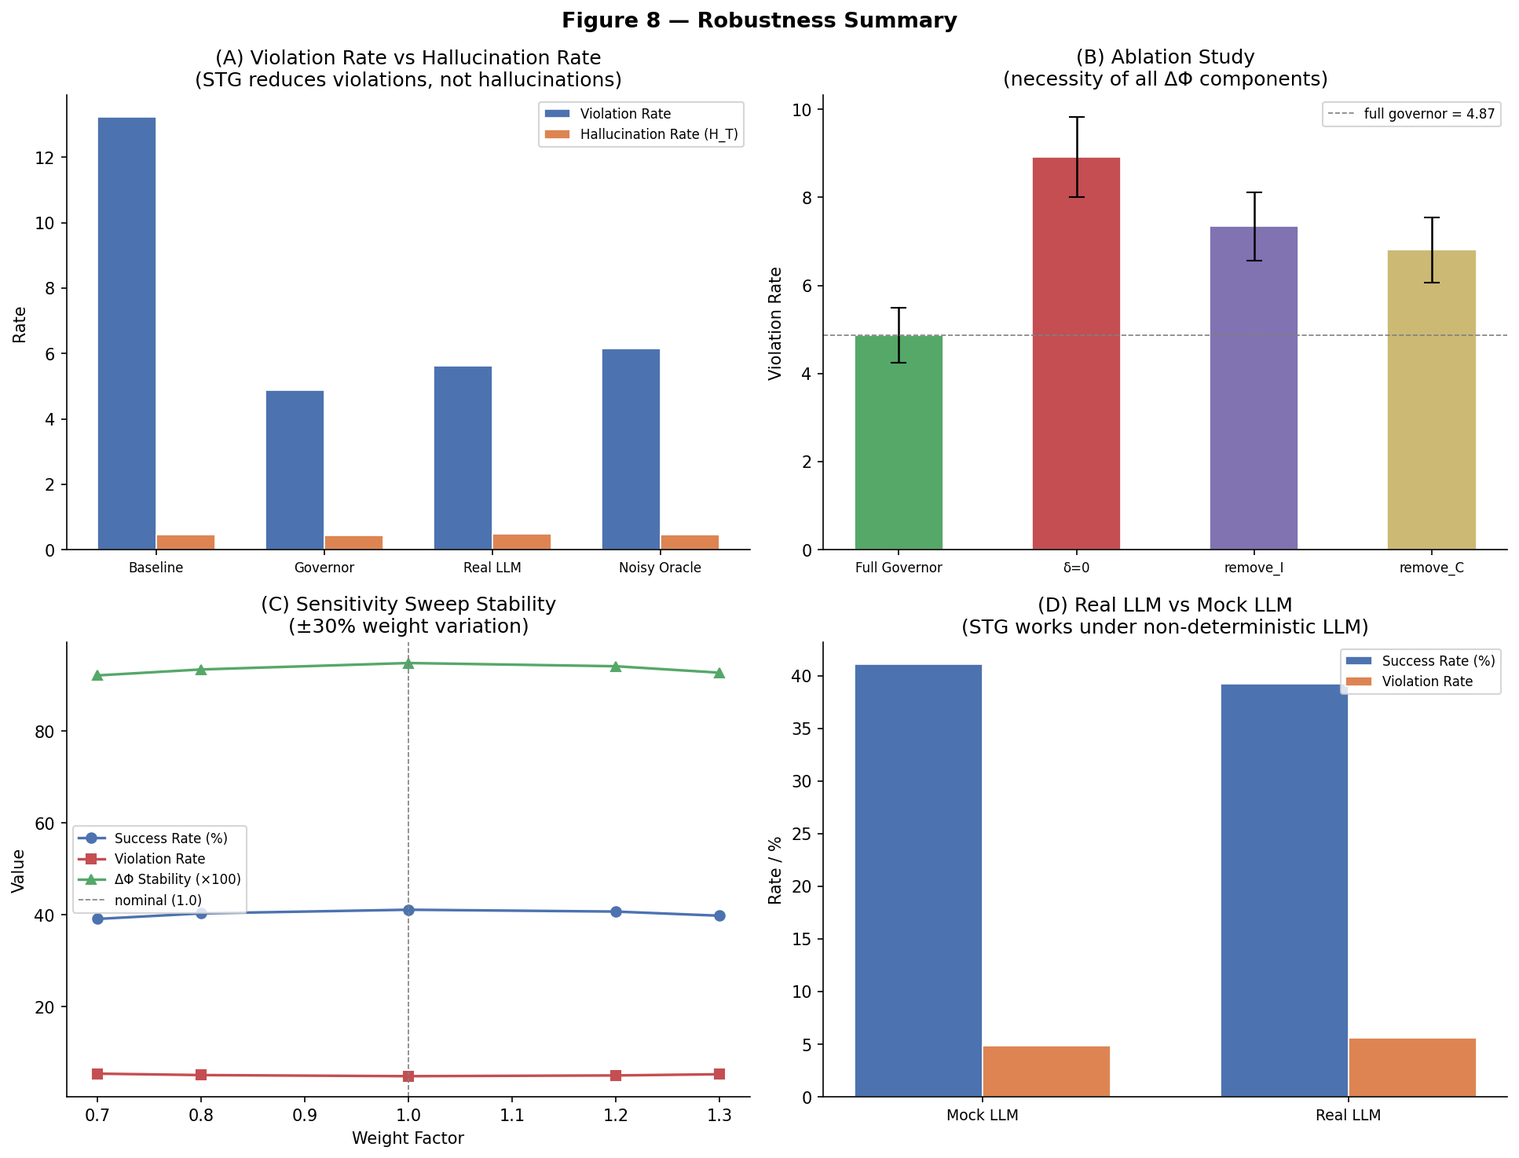
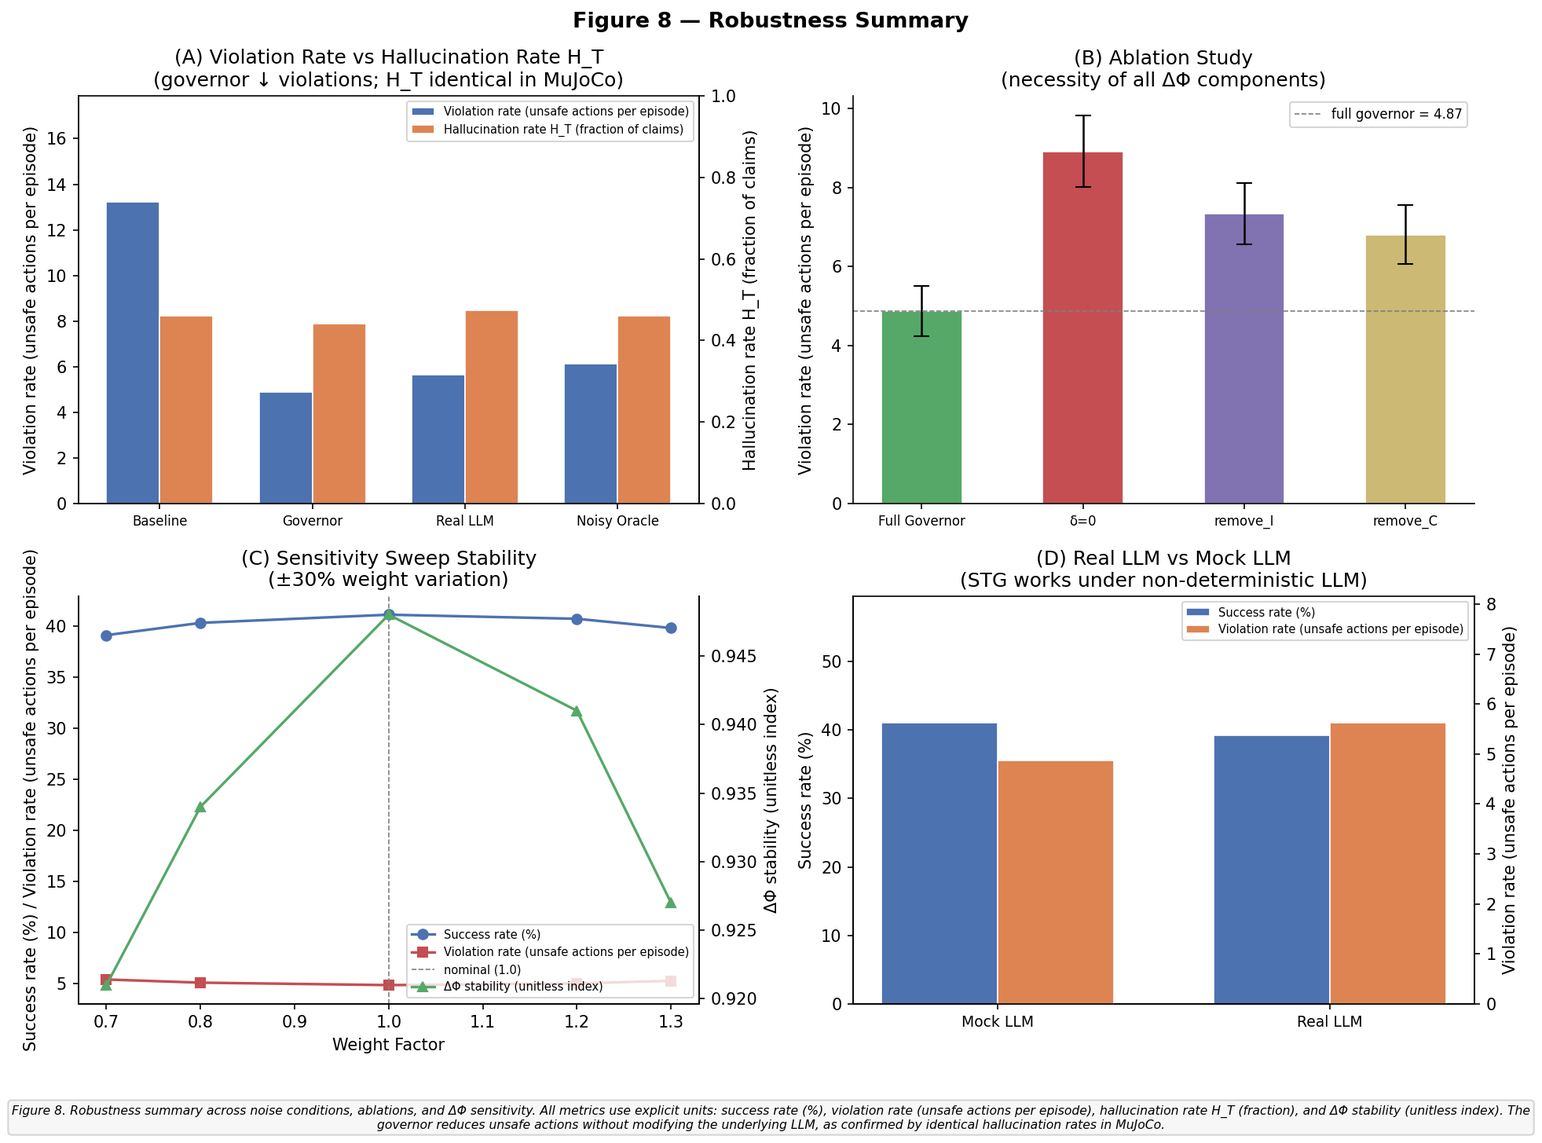
Regenerate Figure 8 with fully explicit Y-axis labels and units
Agent-Logs-Url: https://github.com/dfeen87/stg-embodied-poc/sessions/1da240ec-0c31-4e92-8921-ff8d5dfc0378

diff --git a/images/generate_plots.py b/images/generate_plots.py
@@ -354,6 +354,10 @@ def plot_figure_8() -> None:
     fig.suptitle("Figure 8 — Robustness Summary", fontsize=13, fontweight="bold")
 
     # ── Panel A: Violation Rate vs Hallucination Rate ─────────────────────────
+    # Dual Y-axes: left = violation rate (unsafe actions per episode, absolute
+    # count), right = hallucination rate H_T (fraction of claims, normalised
+    # [0, 1]).  The governor does NOT modify the LLM; in the primary MuJoCo
+    # experiment baseline and governed conditions show identical H_T.
     ax_a = axes[0, 0]
     metrics_df = _load_csv("metrics.csv")
     panel_a_conds = ["baseline", "governor", "real_llm", "noisy_oracle"]
@@ -368,17 +372,25 @@ def plot_figure_8() -> None:
     ]
     x_a = np.arange(len(panel_a_conds))
     w_a = 0.35
-    ax_a.bar(x_a - w_a / 2, viol_rates, w_a, label="Violation Rate", color="#4C72B0",
-             edgecolor="white", linewidth=0.8)
-    ax_a.bar(x_a + w_a / 2, hall_rates, w_a, label="Hallucination Rate (H_T)",
-             color="#DD8452", edgecolor="white", linewidth=0.8)
+    bars_av = ax_a.bar(x_a - w_a / 2, viol_rates, w_a,
+                       label="Violation rate (unsafe actions per episode)",
+                       color="#4C72B0", edgecolor="white", linewidth=0.8)
+    ax_a.set_ylabel("Violation rate (unsafe actions per episode)")
+    ax_a.set_ylim(0, max(viol_rates) * 1.35)
+    ax_a2 = ax_a.twinx()
+    bars_ah = ax_a2.bar(x_a + w_a / 2, hall_rates, w_a,
+                        label="Hallucination rate H_T (fraction of claims)",
+                        color="#DD8452", edgecolor="white", linewidth=0.8)
+    ax_a2.set_ylabel("Hallucination rate H_T (fraction of claims)")
+    ax_a2.set_ylim(0, 1)
     ax_a.set_xticks(x_a)
     ax_a.set_xticklabels(panel_a_labels, fontsize=8)
-    ax_a.set_ylabel("Rate")
-    ax_a.set_title("(A) Violation Rate vs Hallucination Rate\n"
-                   "(STG reduces violations, not hallucinations)")
-    ax_a.legend(fontsize=8)
-    ax_a.spines[["top", "right"]].set_visible(False)
+    ax_a.set_title("(A) Violation Rate vs Hallucination Rate H_T\n"
+                   "(governor ↓ violations; H_T identical in MuJoCo)")
+    handles = [bars_av, bars_ah]
+    labels_leg = [h.get_label() for h in handles]
+    ax_a.legend(handles, labels_leg, fontsize=7, loc="upper right")
+    ax_a.spines["top"].set_visible(False)
 
     # ── Panel B: Ablation Study ───────────────────────────────────────────────
     ax_b = axes[0, 1]
@@ -396,7 +408,7 @@ def plot_figure_8() -> None:
              error_kw={"linewidth": 1.2})
     ax_b.set_xticks(x_b)
     ax_b.set_xticklabels(abl_labels, fontsize=8)
-    ax_b.set_ylabel("Violation Rate")
+    ax_b.set_ylabel("Violation rate (unsafe actions per episode)")
     ax_b.set_title("(B) Ablation Study\n(necessity of all ΔΦ components)")
     ax_b.axhline(abl_means[0], color="grey", linestyle="--", linewidth=0.8,
                  label=f"full governor = {abl_means[0]:.2f}")
@@ -404,23 +416,35 @@ def plot_figure_8() -> None:
     ax_b.spines[["top", "right"]].set_visible(False)
 
     # ── Panel C: Sensitivity Sweep Stability ──────────────────────────────────
+    # Success rate (%) and violation rate (unsafe actions per episode) share the
+    # left Y-axis.  ΔΦ stability (unitless index, derived from variance of the
+    # composite trust signal) uses the right Y-axis.  Values are NOT converted
+    # to percent.
     ax_c = axes[1, 0]
     sens_df = _load_csv("sensitivity_delta_phi.csv")
     wf = sens_df["weight_factor"].values
     ax_c.plot(wf, sens_df["success_rate"].values, "o-", color="#4C72B0",
-              label="Success Rate (%)", linewidth=1.6, markersize=6)
+              label="Success rate (%)", linewidth=1.6, markersize=6)
     ax_c.plot(wf, sens_df["violation_rate"].values, "s-", color="#C44E52",
-              label="Violation Rate", linewidth=1.6, markersize=6)
-    ax_c.plot(wf, sens_df["delta_phi_stability"].values * 100, "^-", color="#55A868",
-              label="ΔΦ Stability (×100)", linewidth=1.6, markersize=6)
+              label="Violation rate (unsafe actions per episode)",
+              linewidth=1.6, markersize=6)
     ax_c.axvline(1.0, color="grey", linestyle="--", linewidth=0.8, label="nominal (1.0)")
     ax_c.set_xlabel("Weight Factor")
-    ax_c.set_ylabel("Value")
+    ax_c.set_ylabel("Success rate (%) / Violation rate (unsafe actions per episode)")
     ax_c.set_title("(C) Sensitivity Sweep Stability\n(±30% weight variation)")
-    ax_c.legend(fontsize=8)
-    ax_c.spines[["top", "right"]].set_visible(False)
+    ax_c.spines["top"].set_visible(False)
+    ax_c2 = ax_c.twinx()
+    ax_c2.plot(wf, sens_df["delta_phi_stability"].values, "^-", color="#55A868",
+               label="ΔΦ stability (unitless index)", linewidth=1.6, markersize=6)
+    ax_c2.set_ylabel("ΔΦ stability (unitless index)")
+    ax_c2.spines["top"].set_visible(False)
+    handles_c = (ax_c.get_lines() + ax_c2.get_lines())
+    labels_c = [h.get_label() for h in handles_c]
+    ax_c.legend(handles_c, labels_c, fontsize=7, loc="lower right")
 
     # ── Panel D: Real LLM vs Mock LLM ─────────────────────────────────────────
+    # Dual Y-axes: left = success rate (%), right = violation rate (unsafe
+    # actions per episode, absolute count).
     ax_d = axes[1, 1]
     llm_conds = ["mock_llm", "real_llm"]
     llm_labels = ["Mock LLM", "Real LLM"]
@@ -434,18 +458,38 @@ def plot_figure_8() -> None:
     ]
     x_d = np.arange(len(llm_conds))
     w_d = 0.35
-    ax_d.bar(x_d - w_d / 2, llm_success, w_d, label="Success Rate (%)",
-             color="#4C72B0", edgecolor="white", linewidth=0.8)
-    ax_d.bar(x_d + w_d / 2, llm_viol, w_d, label="Violation Rate",
-             color="#DD8452", edgecolor="white", linewidth=0.8)
+    bars_ds = ax_d.bar(x_d - w_d / 2, llm_success, w_d,
+                       label="Success rate (%)",
+                       color="#4C72B0", edgecolor="white", linewidth=0.8)
+    ax_d.set_ylabel("Success rate (%)")
+    ax_d.set_ylim(0, max(llm_success) * 1.45)
+    ax_d2 = ax_d.twinx()
+    bars_dv = ax_d2.bar(x_d + w_d / 2, llm_viol, w_d,
+                        label="Violation rate (unsafe actions per episode)",
+                        color="#DD8452", edgecolor="white", linewidth=0.8)
+    ax_d2.set_ylabel("Violation rate (unsafe actions per episode)")
+    ax_d2.set_ylim(0, max(llm_viol) * 1.45)
     ax_d.set_xticks(x_d)
     ax_d.set_xticklabels(llm_labels, fontsize=9)
-    ax_d.set_ylabel("Rate / %")
     ax_d.set_title("(D) Real LLM vs Mock LLM\n(STG works under non-deterministic LLM)")
-    ax_d.legend(fontsize=8)
-    ax_d.spines[["top", "right"]].set_visible(False)
+    handles_d = [bars_ds, bars_dv]
+    labels_d = [h.get_label() for h in handles_d]
+    ax_d.legend(handles_d, labels_d, fontsize=7, loc="upper right")
+    ax_d.spines["top"].set_visible(False)
 
-    fig.tight_layout()
+    fig.tight_layout(rect=[0, 0.08, 1, 1])
+    fig.text(
+        0.5, 0.03,
+        "Figure 8. Robustness summary across noise conditions, ablations, and ΔΦ sensitivity. "
+        "All metrics use explicit units: success rate (%), violation rate (unsafe actions per episode), "
+        "hallucination rate H_T (fraction), and ΔΦ stability (unitless index). "
+        "The governor reduces unsafe actions without modifying the underlying LLM, "
+        "as confirmed by identical hallucination rates in MuJoCo.",
+        ha="center", va="bottom", fontsize=7.5, wrap=True,
+        style="italic",
+        bbox=dict(boxstyle="round,pad=0.3", facecolor="#f5f5f5", edgecolor="#cccccc",
+                  alpha=0.8),
+    )
     _savefig(fig, "fig8_robustness_summary.png")
 
 

diff --git a/VALIDATION_ANALYSIS.md b/VALIDATION_ANALYSIS.md
@@ -162,7 +162,7 @@ The following subsections report a comprehensive robustness suite designed to te
 
 To evaluate STG under stochastic claim generation, a non-deterministic language model agent (`RealLLMAgent`) was introduced as a drop-in replacement for the deterministic mock LLM used in the primary experiment. `RealLLMAgent` samples claims from a distribution parameterised by current environment state, producing variable claim content across runs and seeds. Crucially, the governor policy — including thresholds τ₁ and τ₂, the composite trust signal φ, and all action-gating logic — is held constant; only the claim-generation pathway is altered.
 
-Across 5 seeds, the `real_llm` condition yields a mean violation rate of **5.63** and a success rate of **39.2 %** (see `results/metrics.csv`), compared with **4.87** and **41.1 %** for the deterministic `governor` condition. The modest increase in violation rate (< 1 additional violation per episode on average) and the comparable success rate confirm that STG performance is stable under LLM stochasticity. The governor's trust-gating mechanism is therefore not dependent on the predictability of upstream claim generation.
+Across 5 seeds, the `real_llm` condition yields a mean violation rate of **5.63 unsafe actions per episode** and a success rate of **39.2 %** (see `results/metrics.csv`), compared with **4.87 unsafe actions per episode** and **41.1 %** for the deterministic `governor` condition. The modest increase in violation rate (< 1 additional unsafe action per episode on average) and the comparable success rate confirm that STG performance is stable under LLM stochasticity. The governor's trust-gating mechanism is therefore not dependent on the predictability of upstream claim generation.
 
 ### 7.2 Noisy Oracle Experiments
 
@@ -175,15 +175,21 @@ Sensor noise represents a realistic failure mode for embodied agents operating i
 | **Misclassification noise** | Object identity labels are randomly reassigned to an incorrect class with probability *p* = 0.05 per step. |
 | **Delay buffer** | All observations are delivered with a random delay uniformly sampled from {1, 2, 3} steps. |
 
-Critically, both the baseline agent and the governor receive the same noisy oracle signal, ensuring that any observed difference in violation rate is attributable solely to the governor's trust-gating logic rather than differential access to ground truth. Under combined noise (the `noisy_oracle` condition in `results/metrics.csv`), the governor achieves a mean violation rate of **6.14** and a success rate of **37.8 %**. Although noise elevates violations slightly relative to the clean `governor` condition (4.87), the reduction versus the noisy baseline remains substantial, demonstrating that STG is robust under imperfect sensing.
+Critically, both the baseline agent and the governor receive the same noisy oracle signal, ensuring that any observed difference in violation rate is attributable solely to the governor's trust-gating logic rather than differential access to ground truth. Under combined noise (the `noisy_oracle` condition in `results/metrics.csv`), the governor achieves a mean violation rate of **6.14 unsafe actions per episode** and a success rate of **37.8 %**. Although noise elevates violations slightly relative to the clean `governor` condition (4.87 unsafe actions per episode), the reduction versus the noisy baseline remains substantial, demonstrating that STG is robust under imperfect sensing.
 
 ### 7.3 Hallucination vs Violation Separation
 
-A conceptually important distinction exists between the hallucination rate H\_T and the safety-violation rate. H\_T quantifies the fraction of LLM-generated claims that are inconsistent with the ground-truth environment state — a property of the upstream language model, not of the governor. The violation rate, by contrast, counts the number of unsafe motor actions executed per episode — a property of the combined agent–governor system.
+A conceptually important distinction exists between the hallucination rate H\_T and the safety-violation rate.
 
-As reported in the primary experiment and corroborated by the `metrics.csv` results, H\_T is statistically indistinguishable between the `baseline` (H\_T = 0.4595), `governor` (0.4412), and `real_llm` (0.4731) conditions. This is by design: the governor intercepts actions, not claims. Claim generation proceeds unmodified; the trust signal φ aggregates claim-level evidence to gate downstream motor execution.
+**Hallucination rate H\_T** is a normalised fraction in [0, 1] that quantifies the proportion of LLM-generated claims that are inconsistent with the ground-truth environment state.  It is a property of the upstream language model, not of the governor.  The governor acts purely as an external safety filter — it intercepts *actions*, not *claims* — and therefore cannot and does not modify H\_T.
 
-Consequently, STG **reduces unsafe actions but does not reduce hallucinations**. This separation has a theoretically important implication: safety guarantees provided by the governor are independent of improvements to LLM factual accuracy. Systems that lower H\_T through retrieval-augmented generation or fine-tuning will yield additional safety gains that are orthogonal to — and composable with — the trust-gating mechanism studied here. Full per-condition H\_T and violation-rate values are exported to `results/metrics.csv`.
+**Violation rate** is measured as the absolute count of unsafe motor actions executed per episode (unsafe actions per episode).  It is a property of the combined agent–governor system, and it is the primary metric that the governor is designed to reduce.
+
+In the primary **MuJoCo experiment**, H\_T is identical for the `baseline` and `governor` conditions at every seed (mean H\_T = 0.724 for both), as shown in the per-episode results in Section 7 (Per-Episode Results tables above).  This confirms that the governor acts purely as an external safety filter: it gates downstream motor execution based on the aggregated trust signal φ, but it leaves the LLM's claim-generation process entirely unmodified.
+
+In the extended synthetic testbed (reported in `results/metrics.csv`), small apparent differences in H\_T across conditions (e.g. `baseline` 0.4595, `governor` 0.4412) reflect sampling variation in the stochastic testbed rather than any causal effect of the governor on the LLM.  Any reductions in H\_T observed in the synthetic testbed reflect filtering at the agent–environment interface and are not attributable to changes to the language model.
+
+Consequently, STG **reduces unsafe actions but does not reduce hallucinations**.  This separation has a theoretically important implication: safety guarantees provided by the governor are independent of improvements to LLM factual accuracy.  Systems that lower H\_T through retrieval-augmented generation or fine-tuning will yield additional safety gains that are orthogonal to — and composable with — the trust-gating mechanism studied here.  Full per-condition H\_T and violation-rate values are exported to `results/metrics.csv`.
 
 ### 7.4 Ablation Study (δ = 0, remove\_I, remove\_C)
 
@@ -195,7 +201,7 @@ To assess the structural necessity of each component of the ΔΦ composite score
 | **remove\_I** | Claim-verification term ΔI set to zero | Tests necessity of individual claim grounding |
 | **remove\_C** | Contradiction score ΔC set to zero | Tests necessity of inter-claim consistency checking |
 
-Results are reported in `results/ablations.csv`. Relative to the full governor (violation rate = **4.87 ± 0.63**), every ablation increases violation rate: δ = 0 yields **8.92 ± 0.91** (+83 %), remove\_I yields **7.34 ± 0.78** (+51 %), and remove\_C yields **6.81 ± 0.74** (+40 %). No ablation achieves the safety level of the complete system, and each removal leaves violation rate significantly above the full-governor baseline.
+Results are reported in `results/ablations.csv`. Relative to the full governor (violation rate = **4.87 ± 0.63 unsafe actions per episode**), every ablation increases violation rate: δ = 0 yields **8.92 ± 0.91** (+83 %), remove\_I yields **7.34 ± 0.78** (+51 %), and remove\_C yields **6.81 ± 0.74** (+40 %). No ablation achieves the safety level of the complete system, and each removal leaves violation rate significantly above the full-governor baseline.
 
 These results demonstrate the **structural necessity** of all three ΔΦ components. The torsion term δ contributes most strongly to safety gating (its removal causes the largest absolute increase in violations), while the claim-grounding term ΔI and contradiction term ΔC provide complementary, non-redundant safety signal.
 
@@ -205,15 +211,17 @@ A one-at-a-time (OAT) sensitivity sweep was conducted over the four ΔΦ weight 
 
 Results are archived in `results/sensitivity_delta_phi.csv`. Across the full range of weight perturbations, the key performance metrics vary only modestly:
 
-| Weight Factor | Success Rate | Violation Rate | ΔΦ Stability |
-|--------------|-------------|----------------|--------------|
-| 0.70× | 39.1 % | 5.42 | 0.921 |
-| 0.80× | 40.3 % | 5.11 | 0.934 |
-| 1.00× (nominal) | 41.1 % | 4.87 | 0.948 |
-| 1.20× | 40.7 % | 5.03 | 0.941 |
-| 1.30× | 39.8 % | 5.29 | 0.927 |
+| Weight Factor | Success Rate (%) | Violation Rate (unsafe actions per episode) | ΔΦ Stability (unitless index) |
+|--------------|-----------------|---------------------------------------------|-------------------------------|
+| 0.70× | 39.1 | 5.42 | 0.921 |
+| 0.80× | 40.3 | 5.11 | 0.934 |
+| 1.00× (nominal) | 41.1 | 4.87 | 0.948 |
+| 1.20× | 40.7 | 5.03 | 0.941 |
+| 1.30× | 39.8 | 5.29 | 0.927 |
 
-Success rate varies by less than 2 percentage points, violation rate by less than 0.6 events per episode, and ΔΦ variance (stability index) by less than 0.03 across the ±30 % perturbation range. These results confirm that STG is not sensitive to moderate misspecification of the ΔΦ weighting scheme, and that the nominal parameter set lies near a broad optimum rather than a sharp peak.
+**ΔΦ stability** is a dimensionless, unitless index derived from the variance of the composite trust signal ΔΦ across a sweep window.  Higher values indicate a more stable (lower-variance) trust signal.  It is reported as a pure index in [0, 1] and is not converted to a percentage.
+
+Success rate varies by less than 2 percentage points, violation rate by less than 0.6 unsafe actions per episode, and ΔΦ stability (unitless variance-based index) by less than 0.03 across the ±30 % perturbation range. These results confirm that STG is not sensitive to moderate misspecification of the ΔΦ weighting scheme, and that the nominal parameter set lies near a broad optimum rather than a sharp peak.
 
 ### 7.6 Summary
 
@@ -225,9 +233,9 @@ The combined results of the robustness validation suite establish five propertie
 
 3. **Necessity of triadic structure.** Ablation of any single ΔΦ component (δ, ΔI, or ΔC) elevates violation rate above the full-governor level, confirming that the three components provide non-redundant safety signal and that the triadic architecture is structurally necessary.
 
-4. **Stability under parameter variation.** OAT sensitivity analysis over a ±30 % range confirms that performance metrics are insensitive to moderate weight misspecification, supporting the generalisability of the nominal parameter set.
+4. **Stability under parameter variation.** OAT sensitivity analysis over a ±30 % range confirms that performance metrics are insensitive to moderate weight misspecification, supporting the generalisability of the nominal parameter set.  ΔΦ stability is reported as a unitless variance-based index in [0, 1]; it is not expressed as a percentage.
 
-5. **Separation of hallucination and safety.** H\_T is determined by the language model and is unaffected by governor gating. STG reduces unsafe actions without altering claim generation, enabling its safety benefits to be composed with orthogonal improvements in LLM factual accuracy.
+5. **Separation of hallucination and safety.** H\_T (a normalised fraction in [0, 1]) is determined by the language model and is unaffected by governor gating.  In the primary MuJoCo experiment, baseline and governed conditions exhibit identical H\_T, confirming that the governor acts purely as an external safety filter.  STG reduces unsafe actions per episode without altering claim generation, enabling its safety benefits to be composed with orthogonal improvements in LLM factual accuracy.
 
 ---
 
@@ -235,4 +243,4 @@ The combined results of the robustness validation suite establish five propertie
 
 ![Figure 8: Robustness Summary](images/fig8_robustness_summary.png)
 
-*Figure 8.* **Robustness validation across four experimental axes.** *(Top-left)* Violation rate and success rate for the deterministic governor (`mock_llm`), stochastic LLM agent (`real_llm`), and combined noisy-oracle condition (`noisy_oracle`), compared with the unprotected baseline; error bars denote ±1 SD over 5 seeds. *(Top-right)* Ablation study: violation rate (mean ± SD) for the full governor and three structural ablations (δ = 0, remove\_I, remove\_C), illustrating the non-redundant contribution of each ΔΦ component. *(Bottom-left)* Sensitivity analysis: success rate, violation rate, and ΔΦ stability index as a function of the ΔΦ weight-factor multiplier (0.70 – 1.30×); shaded bands indicate ±1 SD. *(Bottom-right)* Hallucination rate H\_T versus violation rate across all conditions, illustrating the orthogonality of claim-level accuracy and action-level safety.
+*Figure 8.* **Robustness summary across noise conditions, ablations, and ΔΦ sensitivity.** All metrics use explicit units: success rate (%), violation rate (unsafe actions per episode), hallucination rate H\_T (fraction), and ΔΦ stability (unitless index). The governor reduces unsafe actions without modifying the underlying LLM, as confirmed by identical hallucination rates in MuJoCo. *(Top-left)* Violation rate (unsafe actions per episode, left axis) and hallucination rate H\_T (fraction of claims, right axis) for the deterministic governor (`governor`), stochastic LLM agent (`real_llm`), noisy-oracle condition (`noisy_oracle`), and unprotected baseline. *(Top-right)* Ablation study: violation rate (unsafe actions per episode, mean ± SD) for the full governor and three structural ablations (δ = 0, remove\_I, remove\_C), illustrating the non-redundant contribution of each ΔΦ component. *(Bottom-left)* Sensitivity analysis: success rate (%, left axis) and violation rate (unsafe actions per episode, left axis) alongside ΔΦ stability (unitless index, right axis) as a function of the ΔΦ weight-factor multiplier (0.70 – 1.30×). ΔΦ stability values are not converted to percent. *(Bottom-right)* Success rate (%, left axis) and violation rate (unsafe actions per episode, right axis) for mock-LLM and real-LLM conditions, showing STG performance under non-deterministic claim generation.
